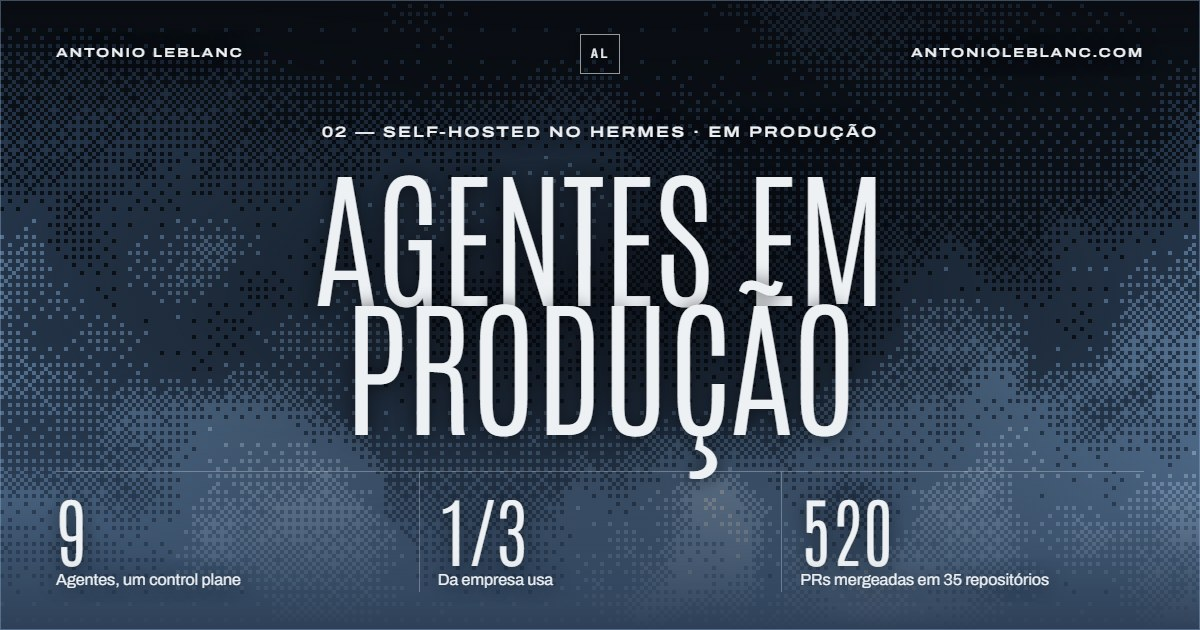
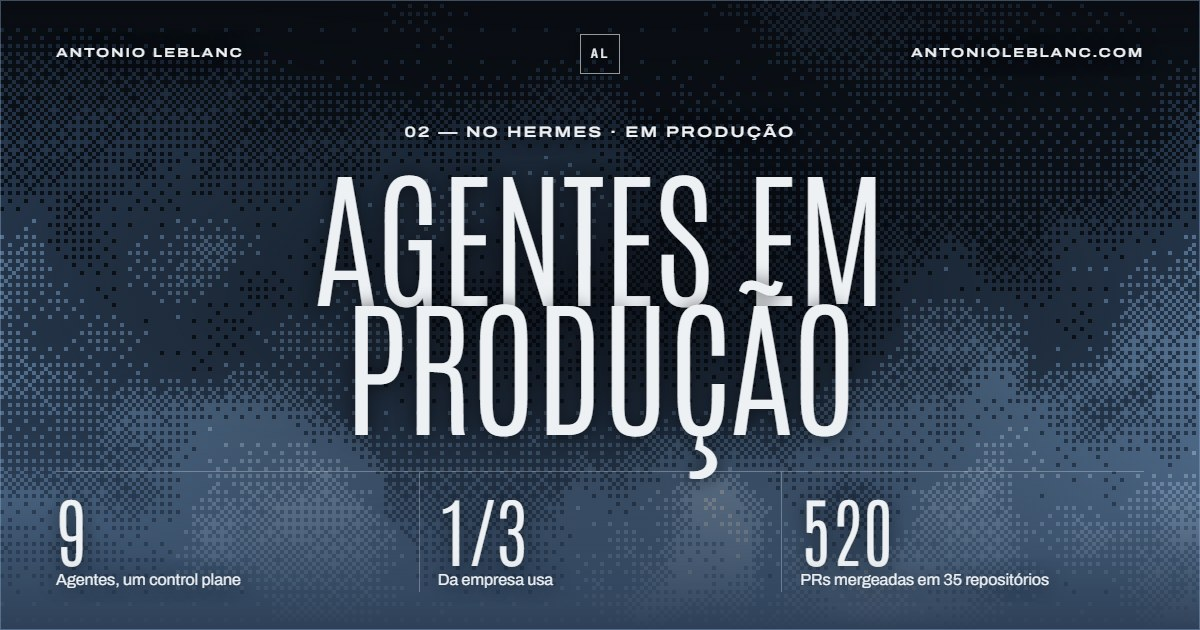
agentes: "self-hosted" uma vez só, no título da seção; imagens de compartilhamento com versão nova

Changed region(s): [[0.3083, 0.181, 0.74, 0.2413]]

diff --git a/pt/projects/agents/index.html b/pt/projects/agents/index.html
@@ -5,7 +5,7 @@
 <meta name="viewport" content="width=device-width, initial-scale=1.0">
 <title>Agentes em produção — Antonio Leblanc</title>
 <meta name="author" content="Antonio Leblanc">
-<meta name="description" content="Nove agentes de IA em produção no Hermes self-hosted, plugados nas ferramentas que a empresa já usa. Um terço da empresa usa.">
+<meta name="description" content="Nove agentes de IA em produção no Hermes, rodando no nosso servidor, plugados nas ferramentas que a empresa já usa. Um terço da empresa usa.">
 <link rel="canonical" href="https://antonioleblanc.com/pt/projects/agents/">
 <link rel="alternate" hreflang="en" href="https://antonioleblanc.com/projects/agents/">
 <link rel="alternate" hreflang="pt-br" href="https://antonioleblanc.com/pt/projects/agents/">
@@ -17,8 +17,8 @@
 <meta property="og:type" content="website">
 <meta property="og:url" content="https://antonioleblanc.com/pt/projects/agents/">
 <meta property="og:title" content="Agentes em produção — Antonio Leblanc">
-<meta property="og:description" content="Nove agentes de IA em produção no Hermes self-hosted, plugados nas ferramentas que a empresa já usa. Um terço da empresa usa.">
-<meta property="og:image" content="https://antonioleblanc.com/assets/images/og/agents-pt.jpg">
+<meta property="og:description" content="Nove agentes de IA em produção no Hermes, rodando no nosso servidor, plugados nas ferramentas que a empresa já usa. Um terço da empresa usa.">
+<meta property="og:image" content="https://antonioleblanc.com/assets/images/og/agents-pt.jpg?v=2">
 <meta property="og:image:width" content="1200">
 <meta property="og:image:height" content="630">
 <meta name="twitter:card" content="summary_large_image">
@@ -50,10 +50,10 @@
           </div>
         </nav>
         <div class="inner">
-          <div class="label">02 — Self-hosted no Hermes · em produção</div>
+          <div class="label">02 — No Hermes · em produção</div>
           <h1 class="display">Agentes em produção</h1>
           <p class="lede">Construo as ferramentas, as salvaguardas e as integrações que tiram os modelos de IA do chat e os colocam em produção — onde errar custa caro.</p>
-          <p class="lede">Self-hosted no Hermes, o runtime de agentes open-source da <a href="https://hermes-agent.nousresearch.com/" target="_blank" rel="noopener">Nous Research</a>.</p>
+          <p class="lede">No nosso servidor, com o Hermes, o runtime de agentes open-source da <a href="https://hermes-agent.nousresearch.com/" target="_blank" rel="noopener">Nous Research</a>.</p>
           <div class="btns">
             <a class="btn" href="#fleet">Ver a frota</a>
             <a class="btn primary" href="#guardrails">Salvaguardas</a>
@@ -124,7 +124,7 @@
 
     <section class="night center">
       <div class="label" style="margin-bottom:22px">Como é construído</div>
-      <h2 class="display reveal">Self-hosted</h2>
+      <h2 class="display reveal">Dentro de casa</h2>
       <p class="lead reveal">De ponta a ponta — o runtime do agente, o estado em SQLite e cada integração rodam em infraestrutura própria, desacoplados dos provedores de inferência. Trocar o modelo é mudar uma configuração; as salvaguardas e o processo de revisão continuam iguais.</p>
       <div class="chips reveal">
         <span class="chip">Hermes Agent Runtime</span><span class="chip">Telegram</span><span class="chip">Python</span><span class="chip">Playwright</span><span class="chip">SQLite</span><span class="chip">GitHub CLI &amp; API</span><span class="chip">Linux / Systemd</span><span class="chip">Bash</span><span class="chip">AWS</span>

diff --git a/pt/agents-hermes/index.html b/pt/agents-hermes/index.html
@@ -5,7 +5,7 @@
   <meta name="viewport" content="width=device-width, initial-scale=1.0" />
   <meta name="robots" content="noindex, nofollow" />
   <meta name="theme-color" content="#0b0b17" />
-  <meta name="description" content="Nove agentes de IA em produção no Hermes self-hosted, plugados nas ferramentas que a empresa já usa. Um terço da empresa usa." />
+  <meta name="description" content="Nove agentes de IA em produção no Hermes, rodando no nosso servidor, plugados nas ferramentas que a empresa já usa. Um terço da empresa usa." />
   <title>Agentes em produção — Antonio Leblanc</title>
   <link rel="icon" href="/favicon.ico" sizes="any" />
   <link rel="icon" href="/favicon.svg" type="image/svg+xml" />
@@ -325,10 +325,10 @@
   </div>
 
   <header class="hero">
-    <div class="label">Self-hosted no Hermes • em produção</div>
+    <div class="label">No Hermes • em produção</div>
     <h1 class="display">Agentes em produção</h1>
     <p>Construo as ferramentas, as salvaguardas e as integrações que tiram os modelos de IA do chat e os colocam em produção — onde errar custa caro.</p>
-    <p>Self-hosted no Hermes, o runtime de agentes open-source da <a href="https://hermes-agent.nousresearch.com/" target="_blank" rel="noopener">Nous Research</a>.</p>
+    <p>No nosso servidor, com o Hermes, o runtime de agentes open-source da <a href="https://hermes-agent.nousresearch.com/" target="_blank" rel="noopener">Nous Research</a>.</p>
     <div class="btns">
       <a class="btn" href="#fleet">Ver a frota</a>
       <a class="btn primary" href="#guardrails">Salvaguardas</a>
@@ -399,7 +399,7 @@
 
     <section class="night center">
       <div class="label" style="margin-bottom:22px">Como é construído</div>
-      <h2 class="display reveal">Self-hosted</h2>
+      <h2 class="display reveal">Dentro de casa</h2>
       <p class="lede">De ponta a ponta — o runtime do agente, o estado em SQLite e cada integração rodam em infraestrutura própria, desacoplados dos provedores de inferência. Trocar o modelo é mudar uma configuração; as salvaguardas e o processo de revisão continuam iguais.</p>
       <div class="chips3"><span>Hermes Agent Runtime</span><span>Telegram</span><span>Python</span><span>Playwright</span><span>SQLite</span><span>GitHub CLI &amp; API</span><span>Linux / Systemd</span><span>Bash</span><span>AWS</span></div>
     </section>

diff --git a/projects/agents/index.html b/projects/agents/index.html
@@ -18,7 +18,7 @@
 <meta property="og:url" content="https://antonioleblanc.com/projects/agents/">
 <meta property="og:title" content="Production Agents — Antonio Leblanc">
 <meta property="og:description" content="Nine AI agents in production on self-hosted Hermes, plugged into the tools a company already uses. A third of the company uses them.">
-<meta property="og:image" content="https://antonioleblanc.com/assets/images/og/agents-en.jpg">
+<meta property="og:image" content="https://antonioleblanc.com/assets/images/og/agents-en.jpg?v=2">
 <meta property="og:image:width" content="1200">
 <meta property="og:image:height" content="630">
 <meta name="twitter:card" content="summary_large_image">
@@ -50,10 +50,10 @@
           </div>
         </nav>
         <div class="inner">
-          <div class="label">02 — Self-hosted on Hermes · in production</div>
+          <div class="label">02 — On Hermes · in production</div>
           <h1 class="display">Production Agents</h1>
           <p class="lede">I build the tools, guardrails, and integrations that move AI models beyond chat and into production — where mistakes are expensive.</p>
-          <p class="lede">Self-hosted on Hermes, the open-source agent runtime by <a href="https://hermes-agent.nousresearch.com/" target="_blank" rel="noopener">Nous Research</a>.</p>
+          <p class="lede">On our own servers, with Hermes, the open-source agent runtime by <a href="https://hermes-agent.nousresearch.com/" target="_blank" rel="noopener">Nous Research</a>.</p>
           <div class="btns">
             <a class="btn" href="#fleet">See the fleet</a>
             <a class="btn primary" href="#guardrails">Guardrails</a>

diff --git a/pt/index.html b/pt/index.html
@@ -22,13 +22,13 @@
 <meta property="og:url" content="https://antonioleblanc.com/pt/">
 <meta property="og:title" content="Antonio Leblanc">
 <meta property="og:description" content="Lidero uma plataforma de IA contra incêndios florestais que protege 40 milhões de hectares na 1.5°C, onde sou cofundador e CTO.">
-<meta property="og:image" content="https://antonioleblanc.com/assets/images/og/home-pt.jpg">
+<meta property="og:image" content="https://antonioleblanc.com/assets/images/og/home-pt.jpg?v=2">
 <meta property="og:image:width" content="1200">
 <meta property="og:image:height" content="630">
 <meta name="twitter:card" content="summary_large_image">
 <meta name="twitter:title" content="Antonio Leblanc">
 <meta name="twitter:description" content="Lidero uma plataforma de IA contra incêndios florestais que protege 40 milhões de hectares na 1.5°C, onde sou cofundador e CTO.">
-<meta name="twitter:image" content="https://antonioleblanc.com/assets/images/og/home-pt.jpg">
+<meta name="twitter:image" content="https://antonioleblanc.com/assets/images/og/home-pt.jpg?v=2">
 
 <script type="application/ld+json">
 {

diff --git a/index.html b/index.html
@@ -22,13 +22,13 @@
 <meta property="og:url" content="https://antonioleblanc.com/">
 <meta property="og:title" content="Antonio Leblanc">
 <meta property="og:description" content="I lead a wildfire AI platform protecting 40M+ hectares at 1.5°C, where I'm co-founder and CTO.">
-<meta property="og:image" content="https://antonioleblanc.com/assets/images/og/home-en.jpg">
+<meta property="og:image" content="https://antonioleblanc.com/assets/images/og/home-en.jpg?v=2">
 <meta property="og:image:width" content="1200">
 <meta property="og:image:height" content="630">
 <meta name="twitter:card" content="summary_large_image">
 <meta name="twitter:title" content="Antonio Leblanc">
 <meta name="twitter:description" content="I lead a wildfire AI platform protecting 40M+ hectares at 1.5°C, where I'm co-founder and CTO.">
-<meta name="twitter:image" content="https://antonioleblanc.com/assets/images/og/home-en.jpg">
+<meta name="twitter:image" content="https://antonioleblanc.com/assets/images/og/home-en.jpg?v=2">
 
 <script type="application/ld+json">
 {

diff --git a/_src/og/og.html b/_src/og/og.html
@@ -66,9 +66,9 @@
             g: [['190', 'Câmeras na rede'], ['40<small>M+</small>', 'Hectares monitorados'], ['98<small>%</small>', 'Dos incêndios: nossa IA vê primeiro']] }
     },
     agents: {
-      en: { eyebrow: '02 — Self-hosted on Hermes · in production', title: 'Production Agents',
+      en: { eyebrow: '02 — On Hermes · in production', title: 'Production Agents',
             g: [['9', 'Agents, one control plane'], ['1/3', 'Of the company uses them'], ['520', 'PRs merged across 35 repos']] },
-      pt: { eyebrow: '02 — Self-hosted no Hermes · em produção', title: 'Agentes em produção',
+      pt: { eyebrow: '02 — No Hermes · em produção', title: 'Agentes em produção',
             g: [['9', 'Agentes, um control plane'], ['1/3', 'Da empresa usa'], ['520', 'PRs mergeadas em 35 repositórios']] }
     },
     forefire: {

diff --git a/agents-hermes/index.html b/agents-hermes/index.html
@@ -325,10 +325,10 @@
   </div>
 
   <header class="hero">
-    <div class="label">Self-hosted on Hermes • in production</div>
+    <div class="label">On Hermes • in production</div>
     <h1 class="display">Production Agents</h1>
     <p>I build the tools, guardrails, and integrations that move AI models beyond chat and into production — where mistakes are expensive.</p>
-    <p>Self-hosted on Hermes, the open-source agent runtime by <a href="https://hermes-agent.nousresearch.com/" target="_blank" rel="noopener">Nous Research</a>.</p>
+    <p>On our own servers, with Hermes, the open-source agent runtime by <a href="https://hermes-agent.nousresearch.com/" target="_blank" rel="noopener">Nous Research</a>.</p>
     <div class="btns">
       <a class="btn" href="#fleet">See the fleet</a>
       <a class="btn primary" href="#guardrails">Guardrails</a>
